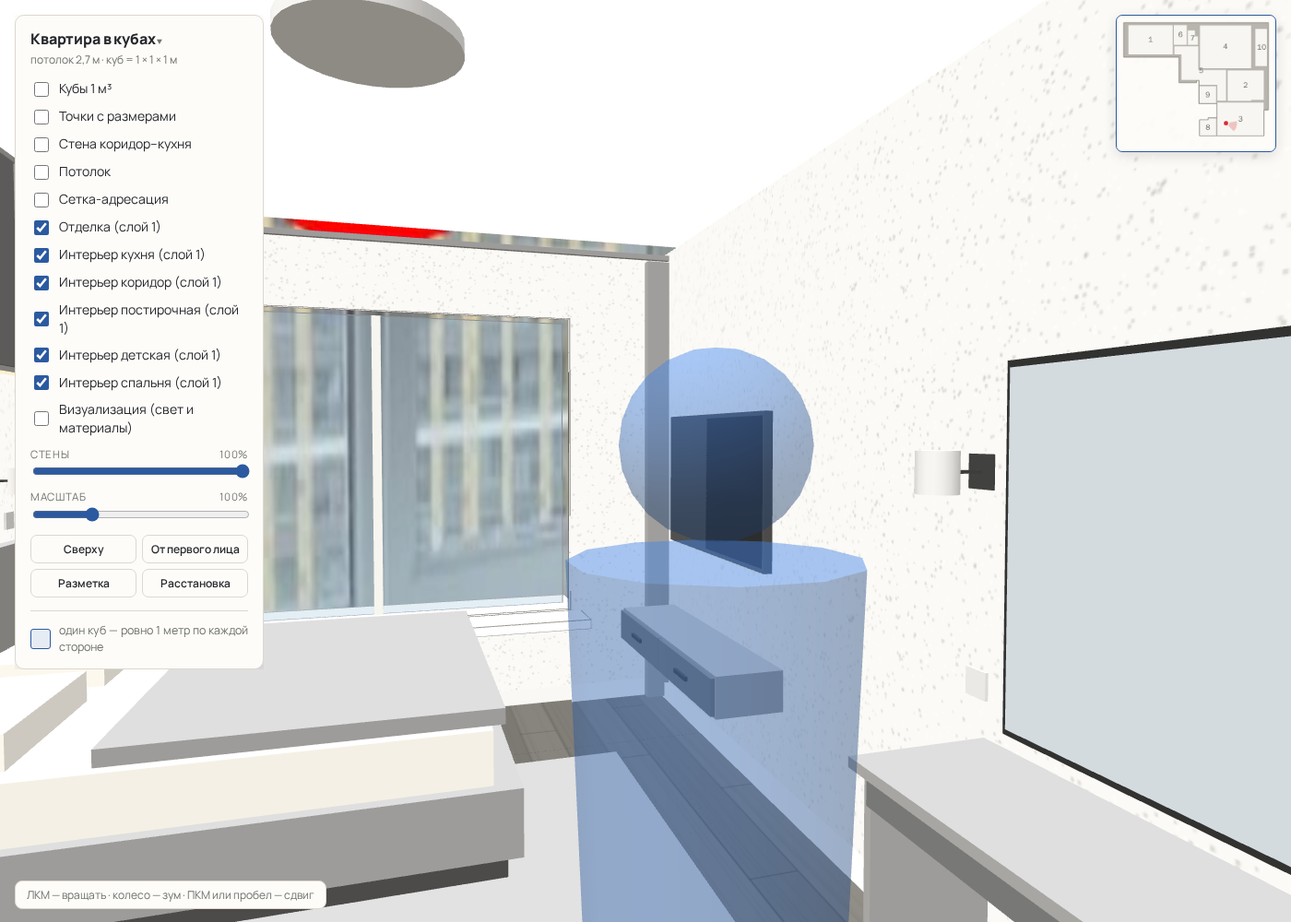
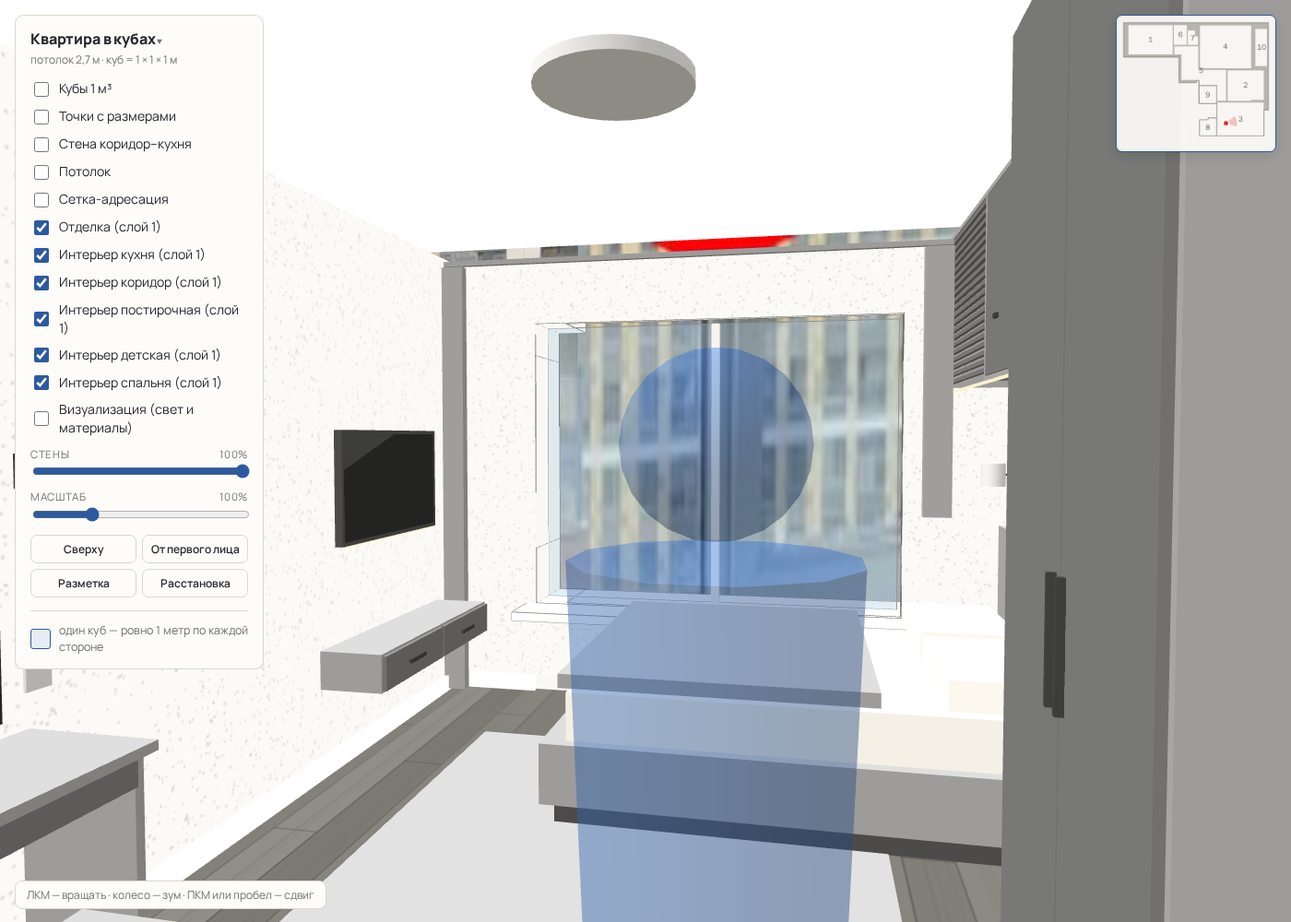
Комната 3: композиция развёрнута — изголовье и шкафы на южной стене, ТВ и столик на северной; кровать 160×200, ТВ 43", комод удалён

diff --git a/items.js b/items.js
@@ -181,72 +181,69 @@ const PHYS={}; // id → boxes
     {id:'sock6',type:'розетка в потолке для проектора',room:1,layer:'kid',pos:[2.26,3.51],rot:0,size:[0.08,2.70,0.08],fixed:'wall',build(b){ b(0,0.08,2.69,2.70,0,0.08,mat.lamp); }},
     {id:'sock7',type:'розетка в потолке для мотора экрана',room:1,layer:'kid',pos:[1.06,2.11],rot:0,size:[0.08,2.70,0.08],fixed:'wall',build(b){ b(0,0.08,2.69,2.70,0,0.08,mat.lamp); }},
     // ---- master bedroom 3 (tasks/room3-master/README.md, marks M1–M28; grey materials only) ----
-    // Room box: x 10.021–14.76, z 9.777–13.144. Wall-mounted boxes sit 0.02–0.03 in front of the wall (wallpaper at 0.015).
-    {id:'mbed',type:'кровать 180×200 с мягким изголовьем',room:3,layer:'master',pos:[12.86,9.777],rot:0,size:[1.90,1.10,2.20],fixed:'wall',
+    // Room box: x 10.021–14.76, z 9.777–13.144. Items are built as if against the north wall and turned 180° (rot 180, pos = SE corner): the composition faces north. Wall-mounted boxes sit 0.02–0.03 in front of the wall (wallpaper at 0.015).
+    {id:'mbed',type:'кровать 160×200 с мягким изголовьем',room:3,layer:'master',pos:[14.76,13.144],rot:180,size:[1.70,1.10,2.20],fixed:'wall',
      build(b){
-       b(0.05,1.85,0,0.10,0.05,2.15,mat.dark); b(0,1.9,0.10,0.35,0,2.2,mat.body);                 // plinth inset 0.05, frame; east side touches the wall under the window
-       b(0.05,1.85,0.35,0.55,0.10,2.10,mat.kmat); b(0,1.9,0.35,1.10,0,0.08,mat.cushion);           // mattress (top 0.55 = window sill), headboard
-       [[0.15,0.85],[1.05,1.75]].forEach(([x0,x1])=>b(x0,x1,0.55,0.67,0.15,0.60,mat.pillow));       // two pillows
-       b(0.10,1.80,0.55,0.61,0.85,2.15,mat.cushion);                                               // blanket at the feet
+       b(0.05,1.65,0,0.10,0.05,2.15,mat.dark); b(0,1.7,0.10,0.35,0,2.2,mat.body);                 // plinth inset 0.05, frame; east side touches the wall under the window
+       b(0.05,1.65,0.35,0.55,0.10,2.10,mat.kmat); b(0,1.7,0.35,1.10,0,0.08,mat.cushion);           // mattress (top 0.55 = window sill), headboard
+       [[0.12,0.82],[0.88,1.58]].forEach(([x0,x1])=>b(x0,x1,0.55,0.67,0.15,0.60,mat.pillow));       // two pillows
+       b(0.10,1.60,0.55,0.61,0.85,2.15,mat.cushion);                                               // blanket at the feet
      }},
-    {id:'mnight',type:'подвесная тумба у кровати, западная',room:3,layer:'master',pos:[12.36,9.777],rot:0,size:[0.50,0.58,0.40],fixed:'wall',
+    {id:'mnight',type:'подвесная тумба у кровати, западная',room:3,layer:'master',pos:[13.06,13.144],rot:180,size:[0.50,0.58,0.40],fixed:'wall',
      build(b){ b(0,0.5,0.40,0.58,0.02,0.38,mat.body); b(0.01,0.49,0.41,0.57,0.38,0.40,mat.wdoor); b(0.175,0.325,0.48,0.50,0.40,0.415,mat.handle); }}, // one drawer
-    {id:'mcab',type:'блок подвесных ящиков над изголовьем, восточная секция под кондиционер',room:3,layer:'master',pos:[12.36,9.777],rot:0,size:[2.40,2.70,0.35],fixed:'wall',
+    {id:'mcab',type:'блок подвесных ящиков над изголовьем, восточная секция под кондиционер',room:3,layer:'master',pos:[14.76,13.144],rot:180,size:[2.40,2.70,0.35],fixed:'wall',
      build(b){
        const t=0.02;
-       b(0,2.4,2.7-t,2.7,0,0.35,mat.body); b(0,1.5,1.85,1.85+t,0,0.35,mat.body); b(0,1.5,1.85+t,2.7-t,0,t,mat.body); // top, bottom and back of the 3 door sections; AC section has neither
-       [0,0.5,1.0,1.5,2.38].forEach(x=>b(x,x+t,1.85+t,2.7-t,t,0.35,mat.body));                     // section walls
-       for(let i=0;i<3;i++){ const x0=i*0.5+t+0.003; b(x0,x0+0.5-2*t-0.006,1.85+t+0.003,2.7-t-0.003,0.33,0.35,mat.wdoor); b(x0+0.2,x0+0.25,2.1,2.12,0.35,0.365,mat.handle); } // doors
-       for(let y=1.89;y<2.66;y+=0.04) b(1.52,2.38,y,y+0.02,0.33,0.35,mat.wdoor);                   // louvred front of the AC section, open bottom
+       b(0,2.4,2.7-t,2.7,0,0.35,mat.body); b(0.9,2.4,1.85,1.85+t,0,0.35,mat.body); b(0.9,2.4,1.85+t,2.7-t,0,t,mat.body); // top, bottom and back of the 3 door sections; AC section has neither
+       [0,0.9,1.4,1.9,2.38].forEach(x=>b(x,x+t,1.85+t,2.7-t,t,0.35,mat.body));                     // section walls
+       for(let i=0;i<3;i++){ const x0=0.9+i*0.5+t+0.003; b(x0,x0+0.5-2*t-0.006,1.85+t+0.003,2.7-t-0.003,0.33,0.35,mat.wdoor); b(x0+0.2,x0+0.25,2.1,2.12,0.35,0.365,mat.handle); } // doors
+       for(let y=1.89;y<2.66;y+=0.04) b(0.02,0.88,y,y+0.02,0.33,0.35,mat.wdoor);                   // louvred front of the AC section, open bottom
      }},
-    {id:'mward',type:'шкаф на две двери для повседневных вещей',room:3,layer:'master',pos:[11.36,9.777],rot:0,size:[1.00,2.70,0.60],fixed:'wall',
+    {id:'mward',type:'шкаф на две двери для повседневных вещей',room:3,layer:'master',pos:[12.36,13.144],rot:180,size:[1.00,2.70,0.60],fixed:'wall',
      build(b){
        b(0,0.02,0,2.7,0.03,0.58,mat.body); b(0.98,1.0,0,2.7,0.03,0.58,mat.body); b(0,1.0,2.68,2.7,0.03,0.58,mat.body); b(0,1.0,0,0.02,0.03,0.58,mat.body); b(0.02,0.98,0.02,2.68,0.03,0.05,mat.body); // body
        b(0.02,0.496,0.02,2.68,0.58,0.60,mat.wdoor); b(0.504,0.98,0.02,2.68,0.58,0.60,mat.wdoor);   // two doors
        b(0.46,0.475,1.0,1.3,0.60,0.62,mat.handle); b(0.525,0.54,1.0,1.3,0.60,0.62,mat.handle);      // vertical bar handles
      }},
-    {id:'mdresser',type:'комод, 4 ящика',room:3,layer:'master',pos:[10.021,9.777],rot:0,size:[1.20,0.90,0.45],fixed:'wall',
-     build(b){ b(0.05,1.15,0,0.05,0.08,0.40,mat.dark); b(0,1.2,0.05,0.90,0.03,0.43,mat.body);
-       [0.08,0.28,0.48,0.68].forEach(y=>{ b(0.02,1.18,y,y+0.18,0.43,0.45,mat.wdoor); b(0.5,0.7,y+0.12,y+0.14,0.45,0.465,mat.handle); }); }},
-    {id:'mtv',type:'телевизор 55" напротив изножья, центр на оси кровати',room:3,layer:'master',pos:[13.20,13.074],rot:0,size:[1.23,1.71,0.04],fixed:'wall',
-     build(b){ b(0,1.23,1.0,1.71,0,0.04,mat.dark); b(0.02,1.21,1.02,1.69,0,0.005,mat.screen); }},
-    {id:'mconsole',type:'подвесная консоль под ТВ, два ящика',room:3,layer:'master',pos:[13.11,12.794],rot:0,size:[1.40,0.60,0.35],fixed:'wall',
-     build(b){ b(0,1.4,0.42,0.60,0.02,0.33,mat.body); [0.01,0.705].forEach(x=>{ b(x,x+0.685,0.43,0.59,0,0.02,mat.wdoor); b(x+0.27,x+0.42,0.50,0.52,-0.015,0,mat.handle); }); }},
-    {id:'vanity',type:'туалетный столик с плоским ящиком',room:3,layer:'master',pos:[10.90,12.694],rot:0,size:[1.00,0.75,0.45],fixed:'wall',
+    {id:'mtv',type:'телевизор 43" напротив изножья, центр на оси кровати',room:3,layer:'master',pos:[14.395,9.847],rot:180,size:[0.97,1.63,0.04],fixed:'wall',
+     build(b){ b(0,0.97,1.07,1.63,0,0.04,mat.dark); b(0.02,0.95,1.09,1.61,0,0.005,mat.screen); }},
+    {id:'mconsole',type:'подвесная консоль под ТВ, два ящика',room:3,layer:'master',pos:[14.51,10.127],rot:180,size:[1.20,0.60,0.35],fixed:'wall',
+     build(b){ b(0,1.2,0.42,0.60,0.02,0.33,mat.body); [0.01,0.605].forEach(x=>{ b(x,x+0.585,0.43,0.59,0,0.02,mat.wdoor); b(x+0.22,x+0.37,0.50,0.52,-0.015,0,mat.handle); }); }},
+    {id:'vanity',type:'туалетный столик с плоским ящиком',room:3,layer:'master',pos:[11.9,10.227],rot:180,size:[1.00,0.75,0.45],fixed:'wall',
      build(b){ b(0,1.0,0.72,0.75,0,0.45,mat.body); b(0.03,0.97,0.62,0.72,0.05,0.43,mat.body); b(0.04,0.96,0.63,0.71,0.03,0.05,mat.wdoor);
        b(0,0.03,0,0.72,0.05,0.43,mat.body); b(0.97,1.0,0,0.72,0.05,0.43,mat.body); }},                // side panels
-    {id:'vmirror',type:'зеркало над туалетным столиком',room:3,layer:'master',pos:[11.00,13.094],rot:0,size:[0.80,1.80,0.03],fixed:'wall',
+    {id:'vmirror',type:'зеркало над туалетным столиком',room:3,layer:'master',pos:[11.8,9.827],rot:180,size:[0.80,1.80,0.03],fixed:'wall',
      build(b){ b(0,0.8,0.80,1.80,0.01,0.03,mat.frame); b(0.02,0.78,0.82,1.78,0,0.01,mat.glass); }},
-    {id:'vpouf',type:'пуфик у туалетного столика',room:3,layer:'master',pos:[11.20,12.24],rot:0,size:[0.40,0.45,0.40],
+    {id:'vpouf',type:'пуфик у туалетного столика',room:3,layer:'master',pos:[11.6,10.681],rot:180,size:[0.40,0.45,0.40],
      build(b){ b(0,0.4,0.35,0.45,0,0.4,mat.cushion); [[0.03,0.03],[0.34,0.03],[0.03,0.34],[0.34,0.34]].forEach(([x,z])=>b(x,x+0.03,0,0.35,z,z+0.03,mat.frame)); }},
-    {id:'mrug',type:'ковёр, короткий ворс',room:3,layer:'master',pos:[11.90,10.60],rot:0,size:[2.00,0.01,2.00],
+    {id:'mrug',type:'ковёр, короткий ворс',room:3,layer:'master',pos:[14.0,12.321],rot:180,size:[2.00,0.01,2.00],
      build(b){ b(0,2,0,0.01,0,2,mat.wpanel); }},
-    {id:'mcurtain',type:'потолочный карниз по восточной стене, шторы собраны у краёв',room:3,layer:'master',pos:[14.60,10.127],rot:0,size:[0.10,2.68,3.017],fixed:'wall',
+    {id:'mcurtain',type:'потолочный карниз по восточной стене, шторы собраны у краёв',room:3,layer:'master',pos:[14.7,12.794],rot:180,size:[0.10,2.68,3.017],fixed:'wall',
      build(b){ b(0.02,0.05,2.65,2.68,0,3.017,mat.body); b(0.02,0.08,1.15,2.64,0,0.15,mat.wpanel); b(0.02,0.08,0.02,2.64,2.867,3.017,mat.wpanel); }}, // rail starts after the cabinet; north bundle hemmed above the headboard
-    {id:'mlight',type:'потолочный светильник Ø0.50, диммер',room:3,layer:'master',pos:[12.15,11.25],rot:0,size:[0.50,2.70,0.50],fixed:'wall',
+    {id:'mlight',type:'потолочный светильник Ø0.50, диммер',room:3,layer:'master',pos:[12.65,11.671],rot:180,size:[0.50,2.70,0.50],fixed:'wall',
      build(b,g){ const c=new THREE.Mesh(new THREE.CylinderGeometry(0.25,0.25,0.04,32),mat.lamp); c.position.set(0.25,2.68,0.25); g.add(c); }},
-    {id:'bra5',type:'бра для чтения, западная сторона кровати',room:3,layer:'master',pos:[13.24,9.797],rot:0,size:[0.16,1.50,0.245],fixed:'wall',
+    {id:'bra5',type:'бра для чтения, западная сторона кровати',room:3,layer:'master',pos:[13.49,13.124],rot:180,size:[0.16,1.50,0.245],fixed:'wall',
      build(b,g){ b(0.03,0.13,1.35,1.45,0,0.02,mat.handle); b(0.075,0.085,1.395,1.405,0.02,0.13,mat.handle); const s=new THREE.Mesh(new THREE.CylinderGeometry(0.06,0.06,0.12,16),mat.lamp); s.position.set(0.08,1.40,0.165); g.add(s); }},
-    {id:'bra6',type:'бра для чтения, восточная сторона кровати',room:3,layer:'master',pos:[14.23,9.797],rot:0,size:[0.16,1.50,0.245],fixed:'wall',
+    {id:'bra6',type:'бра для чтения, восточная сторона кровати',room:3,layer:'master',pos:[14.49,13.124],rot:180,size:[0.16,1.50,0.245],fixed:'wall',
      build(b,g){ b(0.03,0.13,1.35,1.45,0,0.02,mat.handle); b(0.075,0.085,1.395,1.405,0.02,0.13,mat.handle); const s=new THREE.Mesh(new THREE.CylinderGeometry(0.06,0.06,0.12,16),mat.lamp); s.position.set(0.08,1.40,0.165); g.add(s); }},
-    {id:'led4',type:'LED-лента под блоком ящиков, свет на изголовье',room:3,layer:'master',pos:[12.40,10.107],rot:0,size:[2.32,1.85,0.02],fixed:'wall',
+    {id:'led4',type:'LED-лента под блоком ящиков, свет на изголовье',room:3,layer:'master',pos:[14.72,12.814],rot:180,size:[2.32,1.85,0.02],fixed:'wall',
      build(b){ b(0,2.32,1.84,1.85,0,0.02,mat.led); }},
-    {id:'bra7',type:'бра у зеркала, левое',room:3,layer:'master',pos:[10.81,12.899],rot:0,size:[0.16,1.60,0.245],fixed:'wall',
+    {id:'bra7',type:'бра у зеркала, левое',room:3,layer:'master',pos:[10.97,10.022],rot:180,size:[0.16,1.60,0.245],fixed:'wall',
      build(b,g){ b(0.03,0.13,1.45,1.55,0.225,0.245,mat.handle); b(0.075,0.085,1.495,1.505,0.115,0.225,mat.handle); const s=new THREE.Mesh(new THREE.CylinderGeometry(0.06,0.06,0.12,16),mat.lamp); s.position.set(0.08,1.50,0.08); g.add(s); }},
-    {id:'bra8',type:'бра у зеркала, правое',room:3,layer:'master',pos:[11.84,12.899],rot:0,size:[0.16,1.60,0.245],fixed:'wall',
+    {id:'bra8',type:'бра у зеркала, правое',room:3,layer:'master',pos:[12.0,10.022],rot:180,size:[0.16,1.60,0.245],fixed:'wall',
      build(b,g){ b(0.03,0.13,1.45,1.55,0.225,0.245,mat.handle); b(0.075,0.085,1.495,1.505,0.115,0.225,mat.handle); const s=new THREE.Mesh(new THREE.CylinderGeometry(0.06,0.06,0.12,16),mat.lamp); s.position.set(0.08,1.50,0.08); g.add(s); }},
-    {id:'led5',type:'LED-подсветка по нижней кромке ТВ',room:3,layer:'master',pos:[13.25,13.084],rot:0,size:[1.13,1.00,0.01],fixed:'wall',
-     build(b){ b(0,1.13,0.99,1.00,0,0.01,mat.led); }},
-    {id:'sw3',type:'выключатель у двери, 2 клавиши: общий свет M13 + бра/LED',room:3,layer:'master',pos:[10.041,12.00],rot:0,size:[0.01,0.99,0.08],fixed:'wall',build(b){ b(0,0.01,0.91,0.99,0,0.08,mat.lamp); }},
-    {id:'sw4',type:'проходной выключатель у кровати, 2 клавиши',room:3,layer:'master',pos:[12.28,9.797],rot:0,size:[0.08,0.89,0.01],fixed:'wall',build(b){ b(0,0.08,0.81,0.89,0,0.01,mat.lamp); }},
+    {id:'led5',type:'LED-подсветка по нижней кромке ТВ',room:3,layer:'master',pos:[14.37,9.837],rot:180,size:[0.92,1.07,0.01],fixed:'wall',
+     build(b){ b(0,0.92,1.06,1.07,0,0.01,mat.led); }},
+    {id:'sw3',type:'выключатель у двери, 2 клавиши: общий свет M13 + бра/LED',room:3,layer:'master',pos:[10.051,10.921],rot:180,size:[0.01,0.99,0.08],fixed:'wall',build(b){ b(0,0.01,0.91,0.99,0,0.08,mat.lamp); }},
+    {id:'sw4',type:'проходной выключатель у кровати, 2 клавиши',room:3,layer:'master',pos:[12.56,13.124],rot:180,size:[0.08,0.89,0.01],fixed:'wall',build(b){ b(0,0.08,0.81,0.89,0,0.01,mat.lamp); }},
     // sockets: flat boxes 0.08 × 0.08 × 0.01 on the wall, purpose in the caption
-    {id:'sock14',type:'розетки 2+2 USB над тумбой',room:3,layer:'master',pos:[12.53,9.797],rot:0,size:[0.08,0.74,0.01],fixed:'wall',build(b){ b(0,0.08,0.66,0.74,0,0.01,mat.lamp); }},
-    {id:'sock15',type:'розетка + USB у восточного края изголовья (над изголовьем 1.10)',room:3,layer:'master',pos:[14.52,9.797],rot:0,size:[0.08,1.24,0.01],fixed:'wall',build(b){ b(0,0.08,1.16,1.24,0,0.01,mat.lamp); }},
-    {id:'sock16',type:'розетка для кондиционера внутри секции',room:3,layer:'master',pos:[14.27,9.797],rot:0,size:[0.08,2.34,0.01],fixed:'wall',build(b){ b(0,0.08,2.26,2.34,0,0.01,mat.lamp); }},
-    {id:'sock17',type:'медиаблок за телевизором (2 розетки + ТВ/RJ-45 + HDMI)',room:3,layer:'master',pos:[13.78,13.114],rot:0,size:[0.08,1.34,0.01],fixed:'wall',build(b){ b(0,0.08,1.26,1.34,0,0.01,mat.lamp); }},
-    {id:'sock18',type:'розетки у консоли',room:3,layer:'master',pos:[13.78,13.114],rot:0,size:[0.08,0.39,0.01],fixed:'wall',build(b){ b(0,0.08,0.31,0.39,0,0.01,mat.lamp); }},
-    {id:'sock19',type:'розетки + USB у туалетного столика (фен, плойка)',room:3,layer:'master',pos:[11.88,13.114],rot:0,size:[0.08,0.94,0.01],fixed:'wall',build(b){ b(0,0.08,0.86,0.94,0,0.01,mat.lamp); }},
-    {id:'sock20',type:'розетка за комодом (увлажнитель, пылесос)',room:3,layer:'master',pos:[10.58,9.797],rot:0,size:[0.08,0.34,0.01],fixed:'wall',build(b){ b(0,0.08,0.26,0.34,0,0.01,mat.lamp); }},
+    {id:'sock14',type:'розетки 2+2 USB над тумбой',room:3,layer:'master',pos:[12.85,13.124],rot:180,size:[0.08,0.74,0.01],fixed:'wall',build(b){ b(0,0.08,0.66,0.74,0,0.01,mat.lamp); }},
+    {id:'sock15',type:'розетка + USB у восточного края изголовья (над изголовьем 1.10)',room:3,layer:'master',pos:[14.6,13.124],rot:180,size:[0.08,1.24,0.01],fixed:'wall',build(b){ b(0,0.08,1.16,1.24,0,0.01,mat.lamp); }},
+    {id:'sock16',type:'розетка для кондиционера внутри секции',room:3,layer:'master',pos:[14.35,13.124],rot:180,size:[0.08,2.34,0.01],fixed:'wall',build(b){ b(0,0.08,2.26,2.34,0,0.01,mat.lamp); }},
+    {id:'sock17',type:'медиаблок за телевизором (2 розетки + ТВ/RJ-45 + HDMI)',room:3,layer:'master',pos:[13.95,9.807],rot:180,size:[0.08,1.34,0.01],fixed:'wall',build(b){ b(0,0.08,1.26,1.34,0,0.01,mat.lamp); }},
+    {id:'sock18',type:'розетки у консоли',room:3,layer:'master',pos:[13.95,9.807],rot:180,size:[0.08,0.39,0.01],fixed:'wall',build(b){ b(0,0.08,0.31,0.39,0,0.01,mat.lamp); }},
+    {id:'sock19',type:'розетки + USB у туалетного столика (фен, плойка)',room:3,layer:'master',pos:[11.96,9.807],rot:180,size:[0.08,0.94,0.01],fixed:'wall',build(b){ b(0,0.08,0.86,0.94,0,0.01,mat.lamp); }},
+    {id:'sock20',type:'розетка общего назначения (увлажнитель, пылесос)',room:3,layer:'master',pos:[10.66,13.124],rot:180,size:[0.08,0.34,0.01],fixed:'wall',build(b){ b(0,0.08,0.26,0.34,0,0.01,mat.lamp); }},
   ];
   function buildItem(it){
     const g=new THREE.Group();

diff --git a/tools/check.js b/tools/check.js
@@ -378,25 +378,25 @@ const { chromium } = require('playwright');
     const room = PLAN.rooms.find(r => r.id === 3), xs = room.poly.map(q => q[0]), zs = room.poly.map(q => q[1]);
     const inside = its.filter(it => { const b = bb(ITEM_GROUPS[it.id]); return b.min.x < Math.min(...xs) - 0.001 || b.max.x > Math.max(...xs) + 0.001 || b.min.z < Math.min(...zs) - 0.001 || b.max.z > Math.max(...zs) + 0.001; }).map(it => it.id);
     const bed = bb(ITEM_GROUPS.mbed), win = PLAN.windows.find(w => w.x > 14.9 && w.z0 > 10);
-    const cab = [bb(ITEM_GROUPS.mcab), bb(ITEM_GROUPS.mward)].some(b => b.max.z > win.z0 - 0.1 && b.max.x > 14.7);
+    const cab = [bb(ITEM_GROUPS.mcab), bb(ITEM_GROUPS.mward)].some(b => b.min.z < win.z1 + 0.1 && b.max.z > win.z0 - 0.1 && b.max.x > 14.7);
     const door = ['vanity', 'vpouf'].filter(id => { const b = bb(ITEM_GROUPS[id]); return b.min.x < 10.82 && b.max.z > 12.2 && b.min.z < 13.0; });
     const console_ = bb(ITEM_GROUPS.mconsole).min.y, rugTop = bb(ITEM_GROUPS.mrug).max.y;
     const overlap = its.map(it => [it.id, LAY.warnings(it.id).filter(w => /пересекается|границы/.test(w))]).filter(([, w]) => w.length).map(([id, w]) => id + ': ' + w.join('; '));
     const colored = []; its.forEach(it => ITEM_GROUPS[it.id].traverse(o => { if (!o.isMesh || o.material.isMeshBasicMaterial) return; const c = o.material.color; if (Math.max(c.r, c.g, c.b) - Math.min(c.r, c.g, c.b) > 0.08 && !colored.includes(it.id)) colored.push(it.id); }));
     return { n: its.length, inside, bedEast: bed.max.x, cab, door, consoleLow: console_, rugTop, overlap, colored, tv: (bb(ITEM_GROUPS.mtv).min.x + bb(ITEM_GROUPS.mtv).max.x) / 2 };
   });
-  if (m3.n < 28) problems.push('комната 3: предметов слоя master ' + m3.n + ' (< 28)');
+  if (m3.n < 27) problems.push('комната 3: предметов слоя master ' + m3.n + ' (< 27)');
   if (m3.inside.length) problems.push('комната 3: предметы вне помещения: ' + m3.inside.join(', '));
   if (Math.abs(m3.bedEast - 14.76) > 0.01) problems.push('комната 3: кровать не у восточной стены: x1=' + m3.bedEast.toFixed(3));
   if (m3.cab) problems.push('комната 3: блок ящиков/шкаф заходит на окно');
   if (m3.door.length) problems.push('комната 3: в зоне створки двери: ' + m3.door.join(', '));
   if (m3.consoleLow < m3.rugTop) problems.push('комната 3: консоль ниже ковра');
-  if (Math.abs(m3.tv - 13.81) > 0.02) problems.push('комната 3: ТВ не на оси кровати: x=' + m3.tv.toFixed(2));
+  if (Math.abs(m3.tv - 13.91) > 0.02) problems.push('комната 3: ТВ не на оси кровати: x=' + m3.tv.toFixed(2));
   if (m3.overlap.length) problems.push('комната 3: пересечения в расстановке:\n    ' + m3.overlap.join('\n    '));
   if (m3.colored.length) problems.push('комната 3: цветные материалы у ' + m3.colored.join(', '));
   await page.evaluate(() => { setView('top'); controls.lookDown(); const hh = 2.4; controls.r = hh / TAN22; controls.target.set(12.39 - ((PANEL_W - MAP_W) / 2) * (2 * hh / innerHeight), 0, 11.46); controls.apply(); });
   await page.waitForTimeout(300); await page.screenshot({ path: path.join(outDir, 'room3-top.png') });
-  for (const [name, x, z, th] of [['room3-door', 10.9, 11.9, Math.PI / 2 - 0.25], ['room3-tv', 13.6, 10.6, 0.15], ['room3-north', 14.2, 12.4, -Math.PI + 0.55]]) {
+  for (const [name, x, z, th] of [['room3-door', 10.9, 11.9, Math.PI / 2 + 0.25], ['room3-tv', 13.6, 12.3, Math.PI - 0.15], ['room3-south', 14.2, 10.5, -0.55]]) {
     await page.evaluate(([x, z, th]) => controls.setFPV(x, z, th), [x, z, th]); await page.waitForTimeout(300);
     await page.screenshot({ path: path.join(outDir, name + '.png') });
   }

diff --git a/tasks/room3-master/README.md b/tasks/room3-master/README.md
@@ -280,7 +280,15 @@ issue: —
 - Предупреждение «проход до mward 0.50» у кровати остаётся: между шкафом и бортом кровати висит тумба, прохода там нет по
   замыслу; тест комнаты 3 проверяет только пересечения и границы.
 
-Скриншоты: `room3-top.png`, `room3-door.png`, `room3-tv.png`, `room3-north.png` в этой папке.
+Скриншоты: `room3-top.png`, `room3-door.png`, `room3-tv.png`, `room3-south.png` в этой папке.
+
+## Правки пользователя 2026-09-05
+
+Композиция развёрнута: изголовье, тумба, блок ящиков и шкаф — на южной стене (z 12.544–13.144), ТВ с консолью и туалетный
+столик с зеркалом, бра и пуфиком — на северной. В коде предметы построены «как у северной стены» и повёрнуты `rot 180`
+(`pos` — юго-восточный угол); секция кондиционера в локальных x 0–0.9, чтобы остаться у наружной стены. Кровать 160×200
+(каркас 1.70×2.20, x 13.06–14.76, ось 13.91), ТВ 43" (0.97×0.56) и консоль 1.20 на оси, бра на оси ±0.50. Комод M5 удалён,
+розетка M28 оставлена как общего назначения. Карниз — z 9.777–12.794, до блока ящиков.
 
 ## Замечания и риски
 
